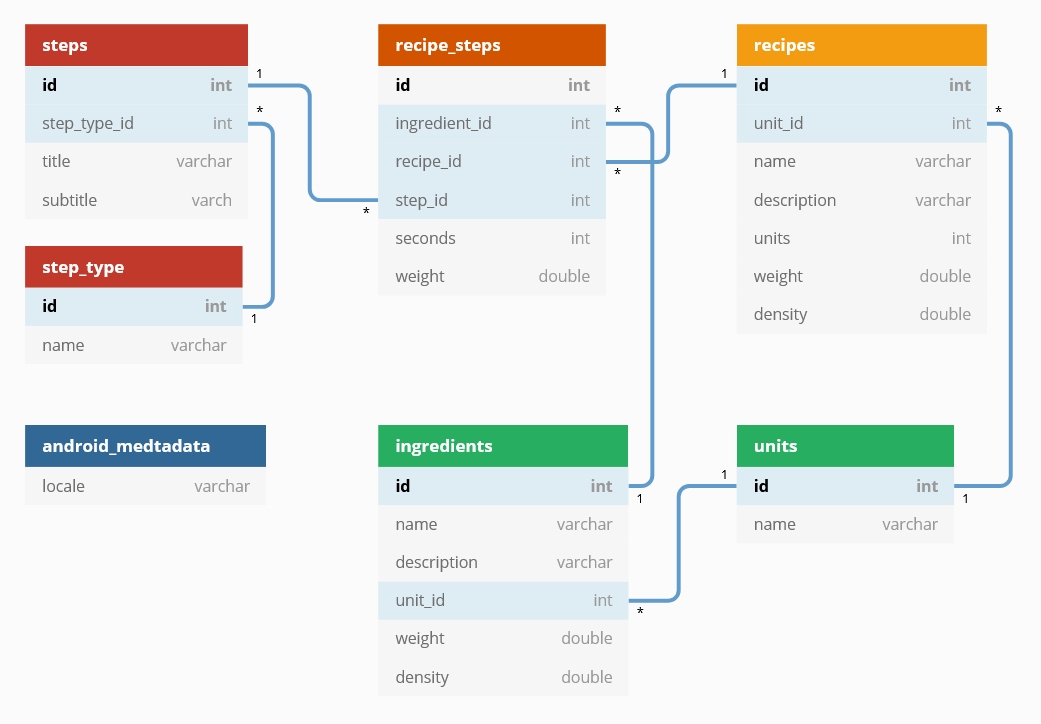
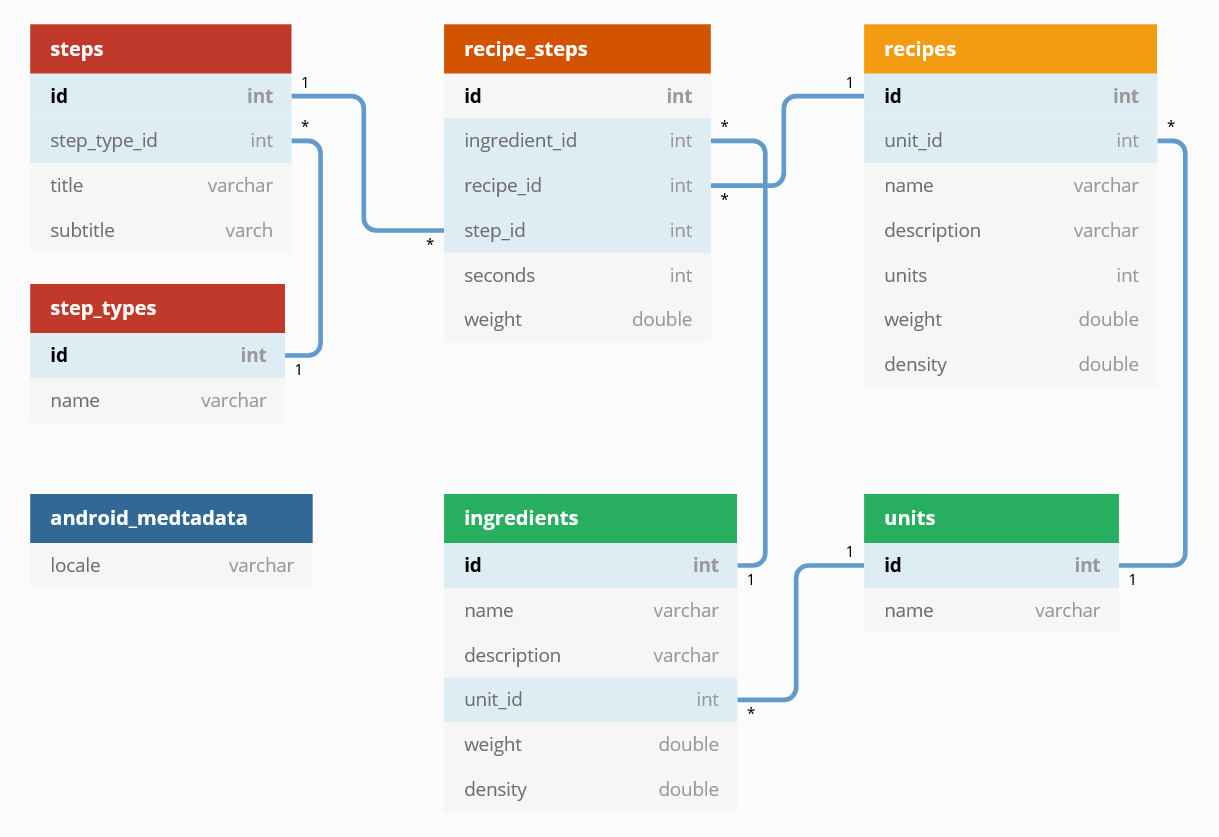
Data loading of base data successful, small tweaks to db schema

diff --git a/python/load_db.py b/python/load_db.py
@@ -37,6 +37,41 @@ def execute_sql(conn, sql):
     except Error as e:
         print(e)
 
+def getStepTypeIDs(conn):
+    try:
+        c = conn.cursor()
+        c.execute('SELECT name, id FROM step_types')
+        IDs = c.fetchall()
+    except Error as e:
+        print(e)
+
+    print ('Fetched {count} step_type objects'.format(count=len(IDs)))
+    return dict(IDs)
+
+def getUnitIDs(conn):
+    try:
+        c = conn.cursor()
+        c.execute('SELECT name, id FROM units')
+        IDs = c.fetchall()
+    except Error as e:
+        print(e)
+
+    print ('Fetched {count} unit objects'.format(count=len(IDs)))
+    return dict(IDs)
+
+def isNumber(val):
+    try:
+        float(val)
+        return True
+    except:
+        return False
+
+def isInt(val):
+    try:
+        return float(val).is_integer()
+    except:
+        return False
+
 
 def main():
     database = r'C:\Users\msmil\workspaces_local\upscale\python\data\out\upscale.db'
@@ -44,40 +79,82 @@ def main():
     # create a database connection
     conn = create_connection(database)
 
-    with open(r'data\in\ingredients.csv', 'r') as file:
-        reader = csv.reader(file)
-        headers = next(reader)
+    tables = ['step_types', 'steps', 'units', 'ingredients']
 
-        #Iterate through row and build SQL statement 
-        for row in reader: 
+    sqlStart = 'INSERT INTO '
+    sqlMid1 ='('
+    sqlMid2 = ') VALUES('
+    sqlEnd =  ');'
 
-            #We will use this to build our SQL insert statement 
-            sqlStart = 'INSERT INTO ingredients('
-            sqlMid = ') VALUES('
-            sqlEnd =  ');'
-            cols = []
-            vals = []
+    stepTypeDict = {}
+    unitDict = {}
 
-            for i in range(len(row)):
-                if row[i].strip():
-                    cols.append(headers[i])
-                    val = row[i]
-                    try:
-                    	float(val)
-                    except:
-                    	val = "\"" + val + "\""
 
-                    vals.append(val)
+    for table in tables: 
+        filePath = 'data\\in\\' + table + '.csv'
 
-            sqlString = sqlStart + ', '.join(cols) + sqlMid + ', '.join(vals) + sqlEnd
+        with open(filePath, 'r') as file:
+            reader = csv.reader(file)
+            headers = next(reader)
 
-            # create tables
+            #Iterate through row and build SQL statement 
+            for row in reader: 
+
+                #We will use this to build our SQL insert statement 
+                cols = []
+                vals = []
+
+                for i in range(len(row)):
+                    if row[i].strip():
+                        val = row[i]
+                        col = headers[i]
+
+                        # if this is a foreign key, replace it
+                        if col == 'step_type_id':
+                            val = stepTypeDict[val]
+                        elif col == 'unit_id':
+                            val = unitDict[val]
+
+                        if isInt(val):
+                            #get rid of decimal point
+                            val = int(val)
+                        elif isNumber(val):
+                            #cast to float
+                            val = float(val)
+                        else:
+                            #otherwise val is string, wrap in quotes
+                            val = "\"" + val + "\""
+
+                        cols.append(col)
+                        vals.append(str(val))
+
+                sqlString = sqlStart + table + sqlMid1 + ', '.join(cols) + sqlMid2 + ', '.join(vals) + sqlEnd
+                print('created SQL: ' + sqlString)
+
+                # create tables
+                if conn is not None:
+                    # print(sqlString)
+                    execute_sql(conn, sqlString)
+
+                else:
+                    print("Error! cannot create the database connection.")
+
+
+            print("Attempting to commit changes")
             if conn is not None:
                 # print(sqlString)
-                execute_sql(conn, sqlString)
+                conn.commit()
 
             else:
                 print("Error! cannot create the database connection.")
+
+        # After updating db, get list of IDs for foreign keys
+        if table == 'step_types':
+            stepTypeDict = getStepTypeIDs(conn)
+
+        if table == 'units':
+            unitDict = getUnitIDs(conn)
+
 
 
 if __name__ == '__main__':
